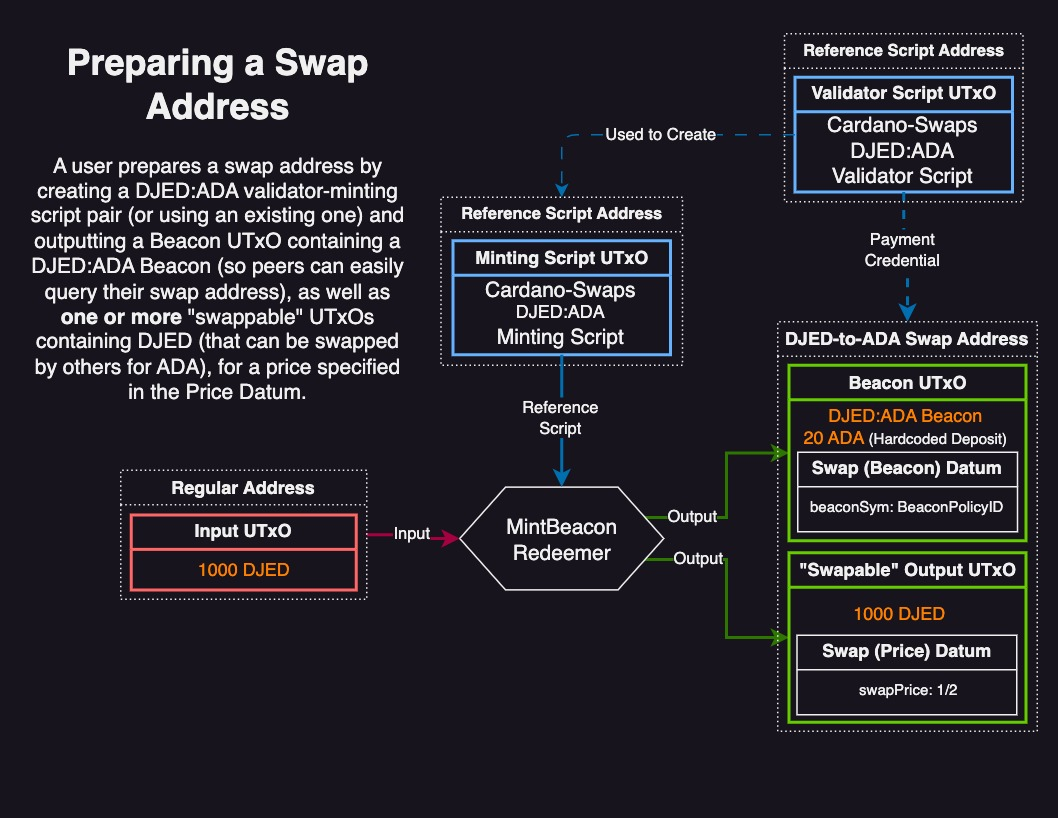
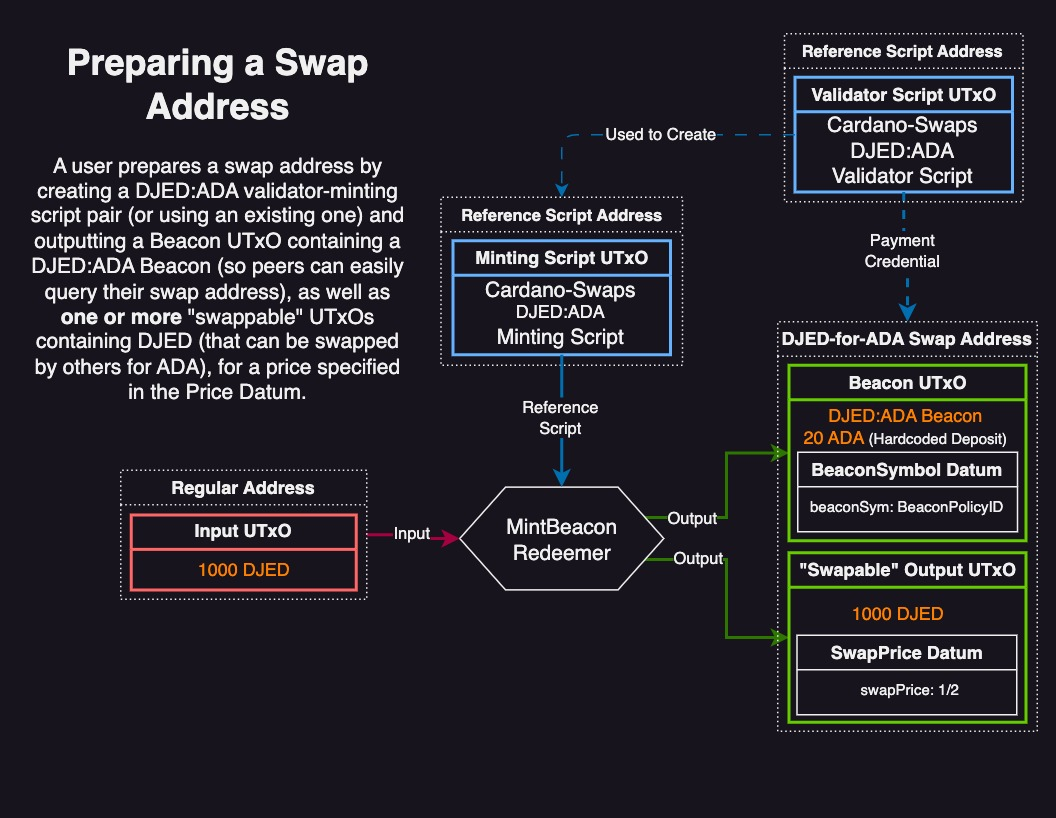
images

diff --git a/README.md b/README.md
@@ -46,9 +46,9 @@ Cardano-Swaps takes inspiration from Axo's programmable swaps design, adds deleg
 
 The Cardano-Swaps Protocol is broadly comprised of two steps:
 
-1. **Prepare Swap Address** - Alice prepares a swap address for swapping Token "ABC" for Token "XYZ" by minting an ABC:XYZ Beacon Token in a "Beacon UTxO" that designates her address specifically as an ABC-to-XYZ swap address. She then (in the same or separate transaction) outputs one or more "Swap UTxO(s)" with "ABC" Tokens, with an attached `Price` Datum that designates her desired price (in "XYZ") for that particular UTxO.
+1. **Prepare Swap Address** - Alice prepares a swap address for swapping Token "ABC" for Token "XYZ" by minting an ABC:XYZ Beacon Token in a "Beacon UTxO" that designates her address specifically as an ABC-for-XYZ swap address. She then (in the same or separate transaction) outputs one or more "Swap UTxO(s)" with "ABC" Tokens, with an attached `Price` Datum that designates her desired price (in "XYZ") for that particular UTxO.
    
-2. **Execute Swap(s)** - Bob queries a list of ABC-to-XYZ swap addresses (via the ABC:XYZ Beacon Token), and finds some attractively priced UTxOs in Alice's swap address. He submits a transaction that consumes one (or multiple) of Alice's "Swap UTxO(s)", and one or more of his own UTxO(s) containing Alice's requested "XYZ" Token. Bob can then output Alice's "ABC" Tokens to himself in proportion to the amount of "XYZ" tokens he outputs back to Alice. Bob does not have to buy all of the contents of one of Alice's UTxOs - he buy however much he wants, and output the remaining "ABC" back to Alice in the same UTxO as her "XYZ" payment. This UTxO (containing Alice's "XYZ" tokens) remains swappable as long as some "ABC" tokens remain in it; nobody except Alice can claim the "XYZ" tokens.
+2. **Execute Swap(s)** - Bob queries a list of ABC-for-XYZ swap addresses (via the ABC:XYZ Beacon Token), and finds some attractively priced UTxOs in Alice's swap address. He submits a transaction that consumes one (or multiple) of Alice's "Swap UTxO(s)", and one or more of his own UTxO(s) containing Alice's requested "XYZ" Token. Bob can then output Alice's "ABC" Tokens to himself in proportion to the amount of "XYZ" tokens he outputs back to Alice. Bob does not have to buy all of the contents of one of Alice's UTxOs - he buy however much he wants, and output the remaining "ABC" back to Alice in the same UTxO as her "XYZ" payment. This UTxO (containing Alice's "XYZ" tokens) remains swappable as long as some "ABC" tokens remain in it; nobody except Alice can claim the "XYZ" tokens.
 
 These features are further explained in the [Discussion section](<#Discussion & FAQ>) below
 
@@ -257,7 +257,7 @@ Currently, plutus validator scripts must be executed once for *every* UTxO being
 
 > **Note**
 > 
-> [Present and future discussions with the IOG team](https://github.com/cardano-foundation/CIPs/pull/418) will help determine if this feature is indeed warranted.
+> [Present and future discussions with the community](https://github.com/cardano-foundation/CIPs/pull/418) will help determine if this feature is indeed warranted.
 
 ### Swap Collisions
 Recall the composition example above. What would happen if another user simultaneously submits a transaction using *one* of the same "Swap" UTxOs as an input? Whichever transaction is processed by (most) nodes first will succeed, and the other will fail entirely. Arbitragers/market-makers will be in constant competition with one another to query and execute the most profitable swaps at any point in time, and must strike a balance between simple swaps and complex composed swaps. There is a lot of stochasticity here; the higher the ratio of open swaps to arbitragers is, the lower the overall chances of a collision, but the more attractive a particular swap is, the higher the chances of *that* particular collision. And "attractiveness" depends not only on the price of one swap, but how that price relates to all possible compositions involving that swap.
